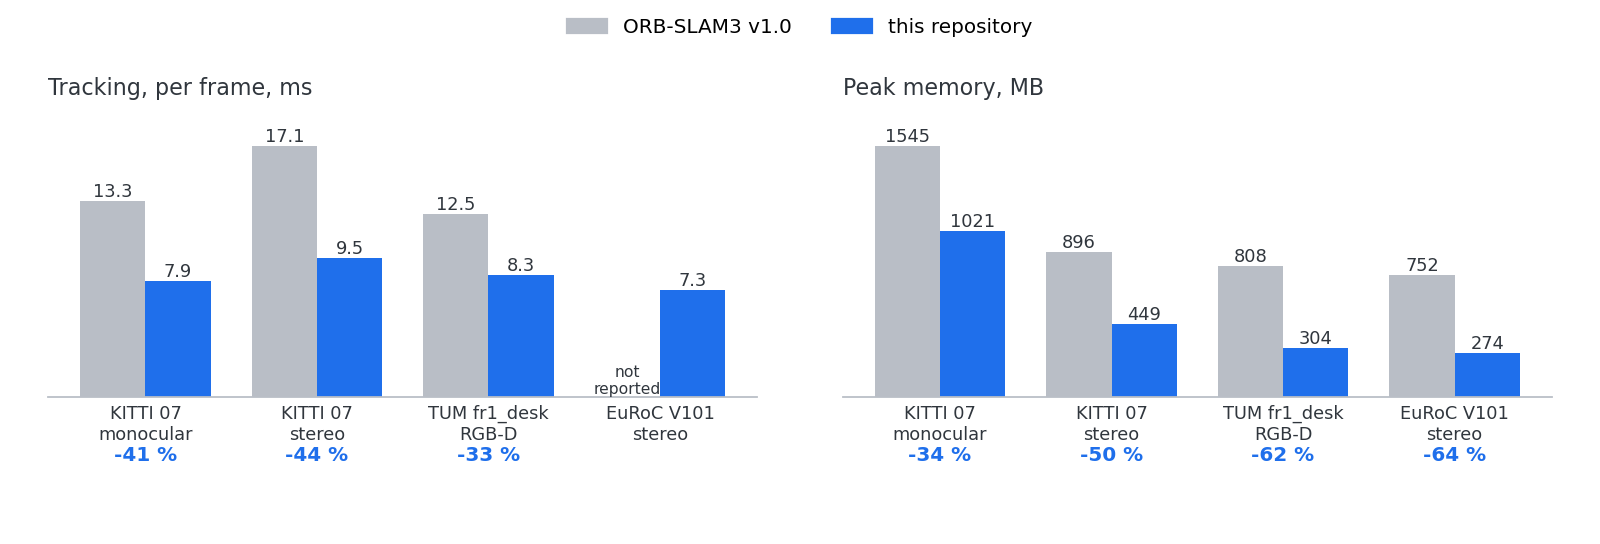
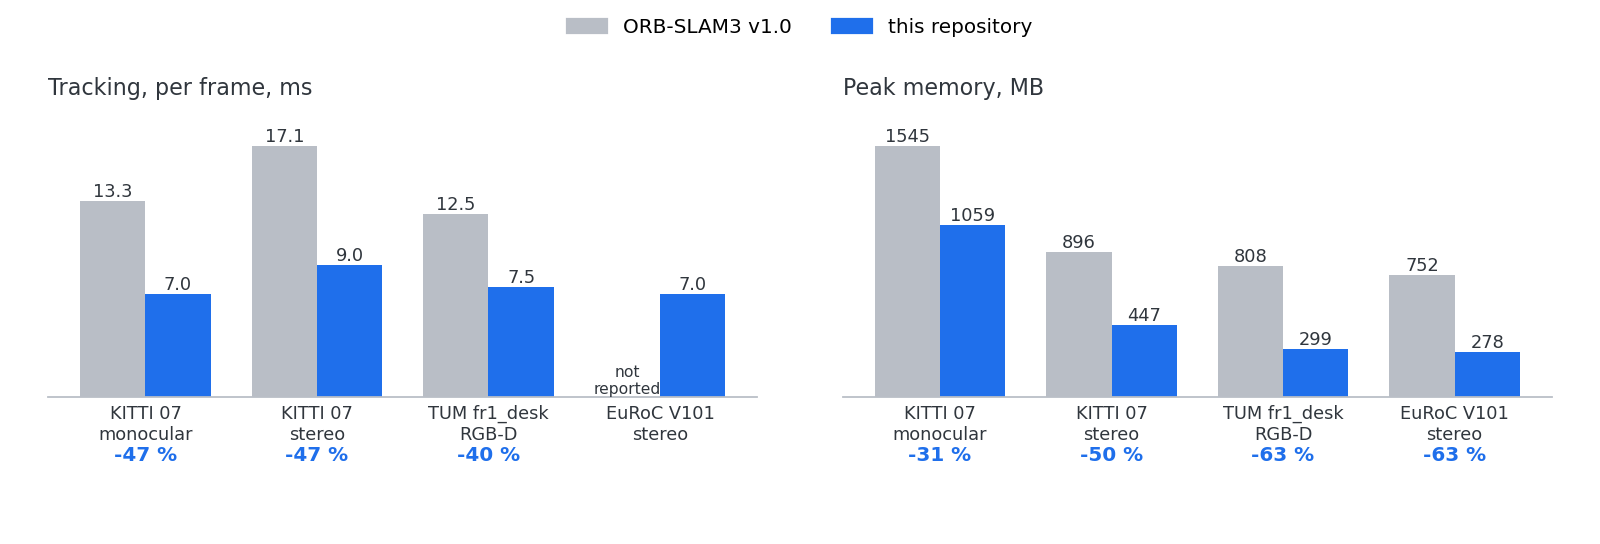
README: the figures as they are at 421b038, stage by stage
The table and the figure at the top from three runs of each build at
421b038: tracking 13.3 -> 7.0 ms per frame on KITTI 07 mono, 17.1 -> 9.0
stereo, 12.5 -> 7.5 TUM RGB-D. What was done for speed, as the stages it
changed -- extraction, stereo matching, point creation, local bundle
adjustment, keyframe culling -- before and now, from tools/ab_stages.sh.
What is open says what was seen and not explained.

diff --git a/README.md b/README.md
@@ -2,8 +2,9 @@
 
 ORB-SLAM3 rebuilt for a robot's onboard computer: monocular, stereo and RGB-D
 SLAM that tracks a frame in a little over half the time of ORB-SLAM3 v1.0 and
-runs in half the memory or less, at the same accuracy, with the defects found
-on the way fixed and the code laid out along the architecture of the paper.
+runs in half the memory or less -- a third less in monocular -- at the same
+accuracy, with the defects found on the way fixed and the code laid out along
+the architecture of the paper.
 
 ![KITTI 07, stereo: the frame with its features, and the map being built](docs/media/kitti07_stereo.gif)
 
@@ -13,23 +14,27 @@ on the way fixed and the code laid out along the architecture of the paper.
 
 | Run | Tracking per frame, ms | Peak memory, MB | ATE, m |
 |---|---:|---:|---:|
-| KITTI 07 monocular | 13.3 → **7.9** (-41 %) | 1545 → **1021** (-34 %) | 2.13 → 2.79 |
-| KITTI 07 stereo | 17.1 → **9.5** (-44 %) | 896 → **449** (-50 %) | 0.408 → 0.402 |
-| TUM fr1_desk RGB-D | 12.5 → **8.3** (-33 %) | 808 → **304** (-62 %) | 0.018 → 0.018 |
-| EuRoC V101 stereo | – → 7.3 | 752 → **274** (-64 %) | 0.037 → 0.039 |
+| KITTI 07 monocular | 13.3 → **7.0** (-47 %) | 1545 → **1059** (-31 %) | 2.13 → 2.51 |
+| KITTI 07 stereo | 17.1 → **9.0** (-47 %) | 896 → **447** (-50 %) | 0.408 → 0.443 |
+| TUM fr1_desk RGB-D | 12.5 → **7.5** (-40 %) | 808 → **299** (-63 %) | 0.018 → 0.017 |
+| EuRoC V101 stereo | – → 7.0 | 752 → **278** (-63 %) | 0.037 → 0.037 |
 
 v1.0 → now, medians of three runs of each, four runs sharing the machine
-(linux/arm64 in Docker, Apple M-series). Monocular accuracy on KITTI moves by
-more than this from one run to the next of the same binary.
+(linux/arm64 in Docker, Apple M-series). Accuracy moves from one run to the
+next of the same binary by more than the two columns differ: KITTI 07 stereo
+between 0.40 and 0.48 m, monocular between 2.0 and 3.0.
 
 **Place recognition** finds what is there to be found:
 
 | Run | Loops closed | Maps merged | Tracking per frame, ms | ATE, m |
 |---|---:|---:|---:|---:|
-| KITTI 05 stereo (three loops) | 3 | – | 10.7 | 0.94 |
-| KITTI 05 monocular | 3 | – | 8.1 | 4.76 |
-| EuRoC V101 + V102 in one session, stereo | 2 | 1 | 7.6 | 0.037 |
-| EuRoC V101 + V102 in one session, monocular | 1 | 1 | 7.7 | 0.029 |
+| KITTI 05 stereo (three loops) | 3 | – | 10.2 | 0.98 |
+| KITTI 05 monocular | 3 | – | 7.5 | 7.41 |
+| EuRoC V101 + V102 in one session, stereo | 2 | 1 | 7.2 | 0.035 |
+| EuRoC V101 + V102 in one session, monocular | 1 | 1 | 6.8 | 0.030 |
+
+One run of each. KITTI 05 monocular has ended between 4.3 and 7.4 m in the
+runs of this tree, and between 5.6 and 7.8 in those of v1.0.
 
 Both tables come from one command, which takes three minutes (five for the
 second) and compares with what was last accepted:
@@ -43,18 +48,33 @@ second) and compares with what was last accepted:
 
 **Faster**
 
-| | Before | After |
-|---|---:|---:|
-| ORB extraction, KITTI image, 2000 features | 9.8 ms | 4.5 ms on two threads, 3.3 on three |
-| – of which descriptors | 1.9 ms | 0.3 ms |
-| Tracking on KITTI 07 stereo after that, with stereo matching and descriptor comparison reworked | 11.5 ms | 9.5 ms |
+Per stage, KITTI 07, before this work and now (`tools/ab_stages.sh`):
 
-- The levels of the image pyramid are extracted in parallel; what is extracted
-  does not depend on the number of threads (`ORBextractor.nThreads`).
-- A descriptor's 512 sampling points are rotated four at a time (SSE2 / NEON).
-- Descriptors are compared 64 bits at a time, inline, in every search.
-- Stereo matching sums its windows on the pixels instead of making a matrix
-  for each.
+| Stage, ms | Stereo | Monocular |
+|---|---:|---:|
+| ORB extraction | 12.5 → **6.2** | 10.8 → **5.4** |
+| Stereo matching | 2.9 → **1.0** | |
+| Tracking, all of it, per frame | 19.2 → **11.5** | 14.5 → **8.6** |
+| Creating map points, per keyframe | 7.7 → **5.7** | 23.1 → **15.8** |
+| Local bundle adjustment | 17.5 → **14.1** | 60.3 → 65.6 |
+| Culling keyframes | 0.8 → 0.8 | 8.7 → **4.8** |
+| Local Mapping, all of it, per keyframe | 28.7 → **23.4** | 95.2 → **89.3** |
+
+- **Extraction**: the levels of the image pyramid in parallel -- what is
+  extracted does not depend on the number of threads
+  (`ORBextractor.nThreads`) -- and a descriptor's 512 sampling points rotated
+  four at a time (SSE2 / NEON). 9.8 → 4.5 ms an image on two threads.
+- **Matching**: descriptors compared 64 bits at a time, inline, in every
+  search; stereo matching sums its windows on the pixels instead of making a
+  matrix for each.
+- **Data structures**: a Frame's feature grid and a map point's observations
+  are each one block instead of a heap block per cell and per observation, so
+  that the copies every frame and every search make of them cost one copy.
+- **Local bundle adjustment** had not converged after its ten iterations:
+  g2o's initial damping is sized by a keyframe's rotation and holds the points
+  back for six or seven of them. Started small, two iterations reach what ten
+  did. In stereo and RGB-D; in monocular it cost accuracy and is as it was.
+  KITTI 04 stereo: 48.5 → 36.7 ms.
 
 **Smaller**
 
@@ -119,10 +139,14 @@ odometry and TUM RGB-D.
 - On TUM fr1_desk RGB-D, tracking is lost right after initialisation in about
   one run in ten and recovered by a second map that is merged later: v1.0 in 2
   runs of 12, this tree in 1 of 12.
+- One run of TUM fr1_desk RGB-D in fourteen of one build ended at an ATE of
+  0.140 m without losing tracking; not explained, and not seen since.
 - FAST detection is what is left of extraction's cost, 5.5 ms of 8 on one
   thread.
-- The back end -- local bundle adjustment, point creation, keyframe culling --
-  is as v1.0 left it.
+- Local bundle adjustment in monocular still runs with g2o's damping; half of
+  what an adjustment costs besides is building the graph for g2o.
+- Tracking the local map takes 0.1 to 0.4 ms longer per frame in stereo than
+  before extraction was made parallel; not looked into.
 - Culled KeyFrames are not freed yet; cross-thread reads of public members and
   the cycle between the three threads' classes remain.
 
